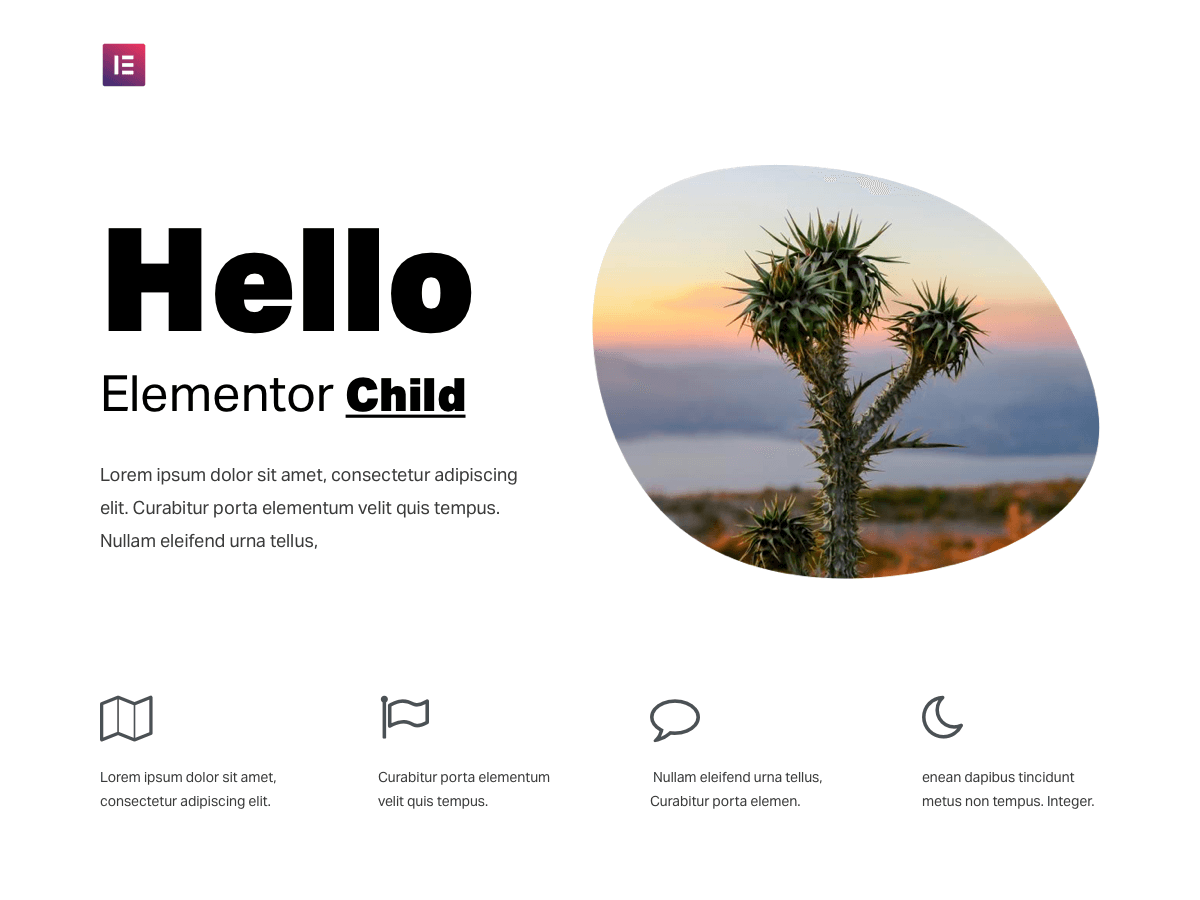
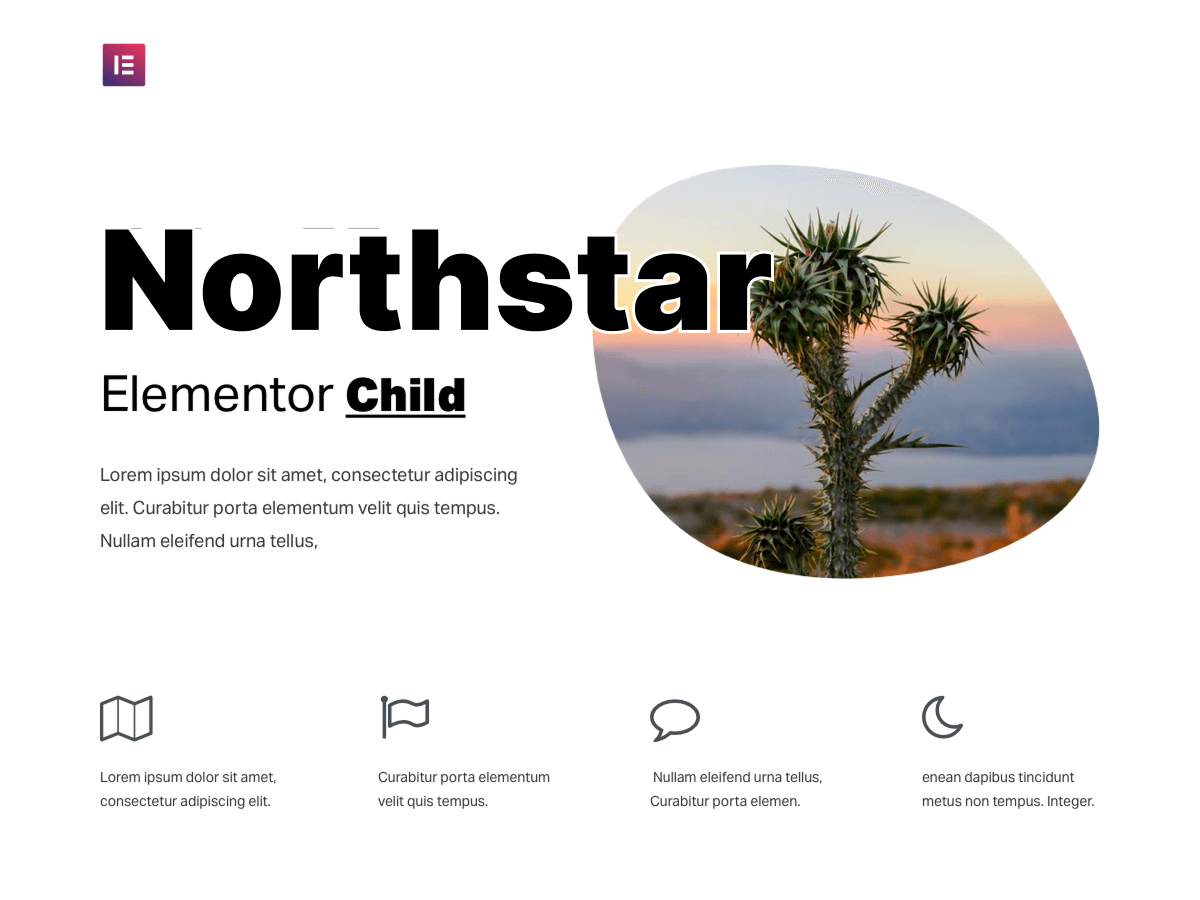
NS-002: Update screenshot and theme info.

Changed region(s): [[0.0617, 0.2489, 0.6475, 0.3733]]

diff --git a/style.css b/style.css
@@ -1,12 +1,11 @@
 /* 
-Theme Name: Hello Elementor Child
-Theme URI: https://github.com/elementor/hello-theme-child/
-Description: Hello Elementor Child is a child theme of Hello Elementor, created by Elementor team
+Theme Name: Northstar Theme
+Theme URI: https://github.com/summit-mkt/northstar-theme
+Description: Northstar Theme is a child theme of Hello Elementor, created by Elementor team
 Author: Elementor Team
-Author URI: https://elementor.com/
-Template: hello-elementor
-Version: 2.0.0
-Text Domain: hello-elementor-child
+Template: northstar-theme
+Version: 1.0.0
+Text Domain: northstar-theme
 License: GNU General Public License v3 or later.
 License URI: https://www.gnu.org/licenses/gpl-3.0.html
 Tags: flexible-header, custom-colors, custom-menu, custom-logo, editor-style, featured-images, rtl-language-support, threaded-comments, translation-ready